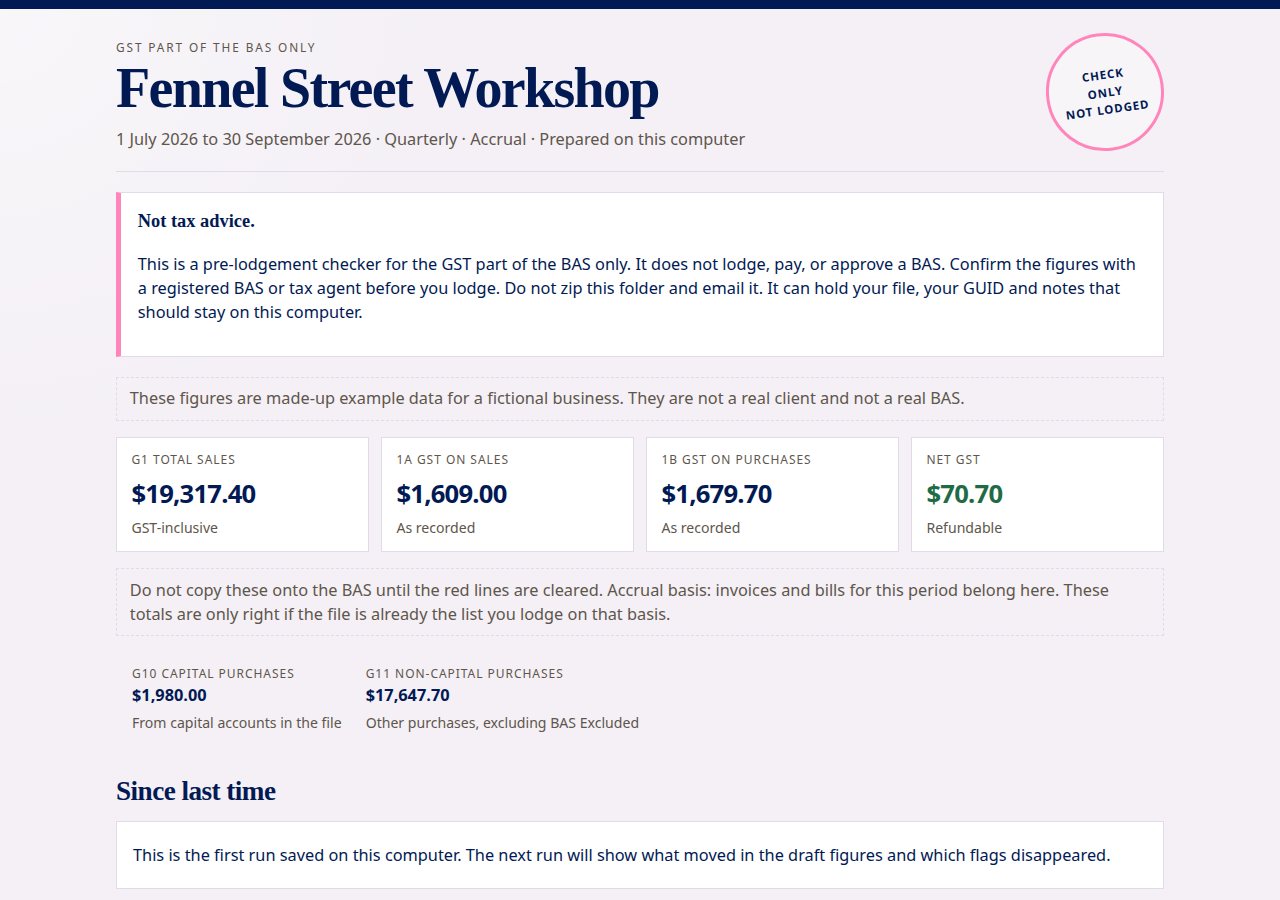
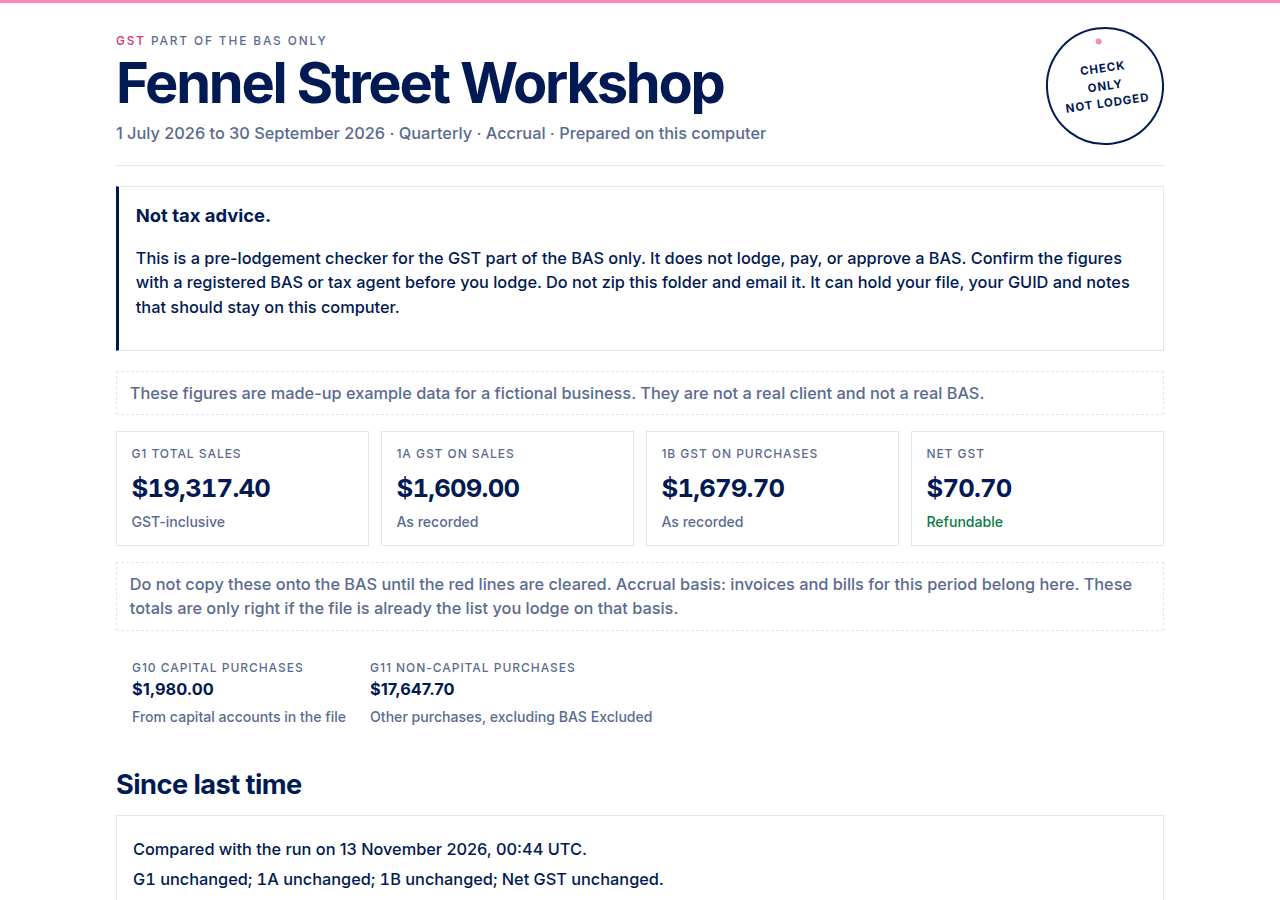
Restyle the Pooja K preset to a white page with a little pink.
Navy text stays on white. Hot pink is only a thin rule, one word, and a small mark. The paper-and-ink theme remains the default.

diff --git a/bas_gst_check/templates/report.css b/bas_gst_check/templates/report.css
@@ -258,3 +258,79 @@ footer.end {
   .stamp { transform: none; }
   .card, .figure, .disclaimer, .panel { break-inside: avoid; }
 }
+
+/* Pooja K preset. White page, navy text, pink only as a small accent. */
+body.pooja {
+  background: #FFFFFF;
+  color: #021A54;
+  font-family: Inter, "Segoe UI", sans-serif;
+  font-weight: 450;
+}
+body.pooja h1,
+body.pooja h2,
+body.pooja h3,
+body.pooja .disclaimer strong,
+body.pooja .card h3 {
+  font-family: Inter, "Segoe UI", sans-serif;
+  font-weight: 800;
+  color: #021A54;
+}
+body.pooja h1 { font-weight: 850; letter-spacing: -0.04em; }
+body.pooja .banner { height: 3px; background: #FF85BB; }
+body.pooja .mark { color: #D6337A; }
+body.pooja a { color: #021A54; }
+body.pooja .stamp {
+  border: 2px solid #021A54;
+  color: #021A54;
+  background: #FFFFFF;
+  font-family: Inter, "Segoe UI", sans-serif;
+  font-weight: 800;
+  position: relative;
+}
+body.pooja .stamp::before {
+  content: "";
+  width: 0.4rem;
+  height: 0.4rem;
+  border-radius: 50%;
+  background: #FF85BB;
+  position: absolute;
+  top: 0.55rem;
+}
+body.pooja .disclaimer {
+  background: #FFFFFF;
+  border: 1px solid #E2E6EE;
+  border-left: 3px solid #021A54;
+}
+body.pooja .disclaimer.warn {
+  background: #FFF0D6;
+  border-color: #FFF0D6;
+  color: #9A5B00;
+}
+body.pooja .disclaimer.error {
+  background: #FDECEC;
+  border-color: #FDECEC;
+  color: #9B1C1C;
+}
+body.pooja .chip.error {
+  background: #FDECEC;
+  color: #9B1C1C;
+  border-color: transparent;
+}
+body.pooja .chip.review {
+  background: #FFF0D6;
+  color: #9A5B00;
+  border-color: transparent;
+}
+body.pooja .chip.note {
+  background: #FFFFFF;
+  color: #021A54;
+  border-color: #E2E6EE;
+}
+body.pooja .figure.payable strong,
+body.pooja .figure.refundable strong { color: #021A54; }
+body.pooja .figure.refundable em { color: #0E7A43; }
+body.pooja code,
+body.pooja .prompt {
+  font-family: "JetBrains Mono", ui-monospace, monospace;
+  font-weight: 400;
+}

diff --git a/bas_gst_check/report.py b/bas_gst_check/report.py
@@ -30,10 +30,15 @@ PRESET = {
     "--ink": "#021A54",
     "--primary": "#021A54",
     "--accent": "#FF85BB",
-    "--paper": "#F4F0F6",
+    "--paper": "#FFFFFF",
     "--card": "#FFFFFF",
-    "--line": "#E3D9EA",
-    "--bad": "#9D174D",
+    "--line": "#E2E6EE",
+    "--muted": "#5B6B8F",
+    "--good": "#0E7A43",
+    "--warn": "#9A5B00",
+    "--bad": "#9B1C1C",
+    "--serif": "Inter, \"Segoe UI\", sans-serif",
+    "--sans": "Inter, \"Segoe UI\", sans-serif",
 }
 
 
@@ -55,6 +60,7 @@ def render_html(
     period_warning: str,
     hard_lines: list[str] | None = None,
     bills_provided: bool = False,
+    theme: str = "",
 ) -> str:
     css = (PACKAGE_TEMPLATES / "report.css").read_text(encoding="utf-8")
     if brand_overrides:
@@ -85,7 +91,12 @@ def render_html(
         template_path = PACKAGE_TEMPLATES / "report.html.tpl"
     template = Template(template_path.read_text(encoding="utf-8"))
     title = f"BAS GST check — {business}"
-    return template.substitute(title=html.escape(title), css=css, body=body)
+    return template.substitute(
+        title=html.escape(title),
+        css=css,
+        body=body,
+        body_class="pooja" if theme == "pooja" else "",
+    )
 
 
 def write_csv(path: Path, flags: list[Flag], notes: dict[str, Note]) -> None:
@@ -171,7 +182,7 @@ def _body(
         parts.append(f'<p class="example-banner">{html.escape(period_warning)}</p>')
     if summary.left_out:
         parts.append(
-            '<section class="disclaimer"><strong>These draft figures are incomplete.</strong> '
+            '<section class="disclaimer warn"><strong>These draft figures are incomplete.</strong> '
             f"<p>{summary.left_out} line{'s were' if summary.left_out != 1 else ' was'} left out because the tax code "
             "or the sale/purchase side was not recognised. This is not a nil BAS. "
             "Do not lodge these numbers until those lines are coded.</p></section>"
@@ -247,7 +258,7 @@ def _header(business: str, period: Period, basis: str, bas_period: str, logo_htm
 <header class="top">
   <div>
     {logo_html}
-    <p class="eyebrow">GST part of the BAS only</p>
+    <p class="eyebrow"><span class="mark">GST</span> part of the BAS only</p>
     <h1>{html.escape(business)}</h1>
     <p class="lede">{html.escape(period_label(period.start, period.end))} · {rhythm} · {basis_label} · Prepared on this computer</p>
   </div>
@@ -487,13 +498,13 @@ def _sources() -> str:
     return f'<ul class="sources">{items}</ul>'
 
 
-def render_error_html(business: str, errors: list[str]) -> str:
+def render_error_html(business: str, errors: list[str], theme: str = "") -> str:
     items = "".join(f"<li>{html.escape(error)}</li>" for error in errors)
     body = f"""
 <main class="wrap">
-  <p class="eyebrow">GST part of the BAS only</p>
+  <p class="eyebrow"><span class="mark">GST</span> part of the BAS only</p>
   <h1>{html.escape(business)}</h1>
-  <section class="disclaimer"><strong>This file could not be checked.</strong>
+  <section class="disclaimer error"><strong>This file could not be checked.</strong>
   <p>No BAS figures were calculated. Fix the file, or name the quarter, and run the check again.</p>
   <ul class="clean">{items}</ul></section>
   <p>Do not copy anything from an older report onto the BAS. This checker sends nothing. Do not zip this folder and email it.</p>
@@ -501,7 +512,12 @@ def render_error_html(business: str, errors: list[str]) -> str:
 """
     css = (PACKAGE_TEMPLATES / "report.css").read_text(encoding="utf-8")
     template = Template((PACKAGE_TEMPLATES / "report.html.tpl").read_text(encoding="utf-8"))
-    return template.substitute(title=html.escape(f"Could not check — {business}"), css=css, body=body)
+    return template.substitute(
+        title=html.escape(f"Could not check — {business}"),
+        css=css,
+        body=body,
+        body_class="pooja" if theme == "pooja" else "",
+    )
 
 
 def _pretty_stamp(value: str) -> str:

diff --git a/bas_gst_check/engine.py b/bas_gst_check/engine.py
@@ -80,7 +80,7 @@ def execute(
     state = state_dir or Path(".local")
     business = active_settings.business_name or loaded.business_name or "This business"
     if loaded.errors:
-        html_path = _write_failure(output, business, loaded.errors)
+        html_path = _write_failure(output, business, loaded.errors, "pooja" if active_settings.brand == "preset" else "")
         return RunResult(html_path, None, loaded.errors, None, [], "off")
 
     period, warning = _resolve_period(loaded, active_settings, period_start, period_end)
@@ -89,7 +89,7 @@ def execute(
             "Which quarter is this file? For example, 1 July 2026 to 30 September 2026. "
             "The figures are not calculated until you name the period. Nothing was guessed from the dates in the file."
         ]
-        html_path = _write_failure(output, business, missing)
+        html_path = _write_failure(output, business, missing, "pooja" if active_settings.brand == "preset" else "")
         return RunResult(html_path, None, missing, None, [], "off")
     warning = " ".join(part for part in (warning, _length_warning(period, active_settings.bas_period)) if part)
     basis = _basis(active_settings, loaded)
@@ -145,6 +145,7 @@ def execute(
         period_warning=warning,
         hard_lines=hard_lines,
         bills_provided=bill_folder is not None,
+        theme="pooja" if active_settings.brand == "preset" else "",
     )
     output.mkdir(parents=True, exist_ok=True)
     html_path = output / "bas-gst-check.html"
@@ -194,10 +195,10 @@ def _resolve_period(
     return None, ""
 
 
-def _write_failure(output: Path, business: str, errors: list[str]) -> Path:
+def _write_failure(output: Path, business: str, errors: list[str], theme: str = "") -> Path:
     output.mkdir(parents=True, exist_ok=True)
     html_path = output / "bas-gst-check.html"
-    html_path.write_text(render_error_html(business or "This business", errors), encoding="utf-8")
+    html_path.write_text(render_error_html(business or "This business", errors, theme), encoding="utf-8")
     return html_path
 
 

diff --git a/README.md b/README.md
@@ -4,11 +4,11 @@ Open this folder in Claude Code or Codex (File, Open Folder, then this folder). 
 
 Check a quarter of GST figures before the BAS is lodged, and see the likely mistakes. This is the GST part of the BAS only.
 
-![Draft BAS report for the fictional example, using the navy and pink preset](docs/screenshot.png)
+![Draft BAS report for the fictional example, using the Pooja K preset](docs/screenshot.png)
 
 ![A short scroll through the same report](docs/walkthrough.gif)
 
-The picture uses the navy and pink preset. Until you choose a brand, the report uses the paper-and-ink default. **Every name, amount and ABN in the example is made up.** Fennel Street Workshop is not a real business.
+The picture uses the Pooja K preset: a white page, navy text, and a little pink. Until you choose a brand, the report uses the paper-and-ink default. **Every name, amount and ABN in the example is made up.** Fennel Street Workshop is not a real business.
 
 This copy is private for now. Do not publish the repository. The licence, when you do share it, is MIT.
 
@@ -22,7 +22,7 @@ Type:
 Set up BAS GST check
 ```
 
-It asks one question at a time: the business name, quarterly or monthly, cash or accrual, branding (the navy `#021A54` and pink `#FF85BB` preset, your own colours and logo, or skip), whether to use the example or your own export, and whether you have an ABR GUID. You can skip the GUID.
+It asks one question at a time: the business name, quarterly or monthly, cash or accrual, branding is asked after the first report (the Pooja K preset, your own colours and logo, or skip), whether to use the example or your own export, and whether you have an ABR GUID. You can skip the GUID.
 
 Then type:
 

diff --git a/AGENTS.md b/AGENTS.md
@@ -18,7 +18,7 @@ Write the answers only into `my-settings.toml` (copy the shape from `my-settings
 
 - Quarterly or monthly goes in `bas_period` as `quarterly` or `monthly`.
 - Cash or accrual goes in `gst_basis` as `cash` or `accrual`.
-- Leave branding as `skip` on the first run. After the first report is open, ask whether they want the navy (`#021A54`) and pink (`#FF85BB`) preset, their own colours and an optional logo, or to keep the plain look. Preset is `brand = "preset"`. Their own colours are `brand = "custom"` with hex codes under `[brand_colours]`. A logo is copied into `my-brand/`.
+- Leave branding as `skip` on the first run. After the first report is open, ask whether they want the Pooja K preset (white page, navy text, a little pink), their own colours and an optional logo, or to keep the plain look. Preset is `brand = "preset"`. Their own colours are `brand = "custom"` with hex codes under `[brand_colours]`. A logo is copied into `my-brand/`.
 - Example data: leave `data_file` blank.
 - Their own export: put the path in `data_file`. If the file does not name the quarter, ask for the start and end dates and set `period_start` and `period_end`.
 - If they skip the GUID, leave `abr_guid` empty. The report will say: ABN check is off: say "set up ABN check" to turn it on.

diff --git a/CLAUDE.md b/CLAUDE.md
@@ -20,7 +20,7 @@ Write the answers only into `my-settings.toml` (copy the shape from `my-settings
 
 - Quarterly or monthly goes in `bas_period` as `quarterly` or `monthly`.
 - Cash or accrual goes in `gst_basis` as `cash` or `accrual`.
-- Leave branding as `skip` on the first run. After the first report is open, ask whether they want the navy (`#021A54`) and pink (`#FF85BB`) preset, their own colours and an optional logo, or to keep the plain look. Preset is `brand = "preset"`. Their own colours are `brand = "custom"` with hex codes under `[brand_colours]`. A logo is copied into `my-brand/`.
+- Leave branding as `skip` on the first run. After the first report is open, ask whether they want the Pooja K preset (white page, navy text, a little pink), their own colours and an optional logo, or to keep the plain look. Preset is `brand = "preset"`. Their own colours are `brand = "custom"` with hex codes under `[brand_colours]`. A logo is copied into `my-brand/`.
 - Example data: leave `data_file` blank.
 - Their own export: put the path in `data_file`. If the file does not name the quarter, ask for the start and end dates and set `period_start` and `period_end`.
 - If they skip the GUID, leave `abr_guid` empty. The report will say: ABN check is off: say "set up ABN check" to turn it on.
